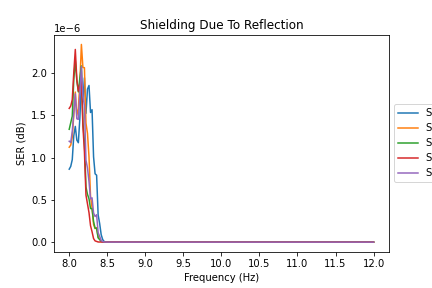
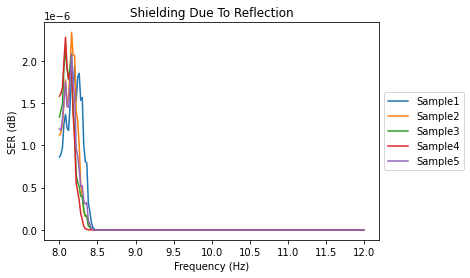
Add files via upload

Changed region(s): [[0.0, 0.0288, 1.0, 0.9784]]

diff --git a/8%CF/45_Degree_50%_8%CF/main.py b/8%CF/45_Degree_50%_8%CF/main.py
@@ -122,7 +122,7 @@ for i in range(N):
     if i == 16:
         plt.plot(x, mag, label = 'Sample4')
         plt.legend(loc='center left', bbox_to_anchor=(1, 0.5))
-    plt.savefig('S11.png')
+    plt.savefig('S11.png', bbox_inches='tight')
         
     plt.title(name_dict[i])
     fig = plt.figure(11)
@@ -152,7 +152,7 @@ for i in range(N):
         plt.plot(x, SER, label = 'Sample5')
 #        plt.plot(x, SER_Tunnel, label = 'tunnel 4')
         plt.legend(loc='center left', bbox_to_anchor=(1, 0.5))
-        plt.savefig('SER.png')
+    plt.savefig('SER.png', bbox_inches='tight')
     
 for i in range(N):
     if i == 0:
@@ -212,7 +212,7 @@ for i in range(N):
     if i == 17:
         plt.plot(x, mag, label = 'Sample5')
         plt.legend(loc='center left', bbox_to_anchor=(1, 0.5))
-        plt.savefig('S21.png')
+    plt.savefig('S21.png', bbox_inches='tight')
         
 S2 = []    
 for i in range(N):
@@ -277,7 +277,7 @@ for i in range(N):
     if i == 18:
         plt.plot(x, mag, label = 'Sample5')
         plt.legend(loc='center left', bbox_to_anchor=(1, 0.5))
-        plt.savefig('S12.png')
+    plt.savefig('S12.png',  bbox_inches='tight')
     plt.title(name_dict[i])
     fig = plt.figure(9)
     plt.title('Total SE')
@@ -302,11 +302,11 @@ for i in range(N):
     if i == 14:
         plt.plot(x, sample, label = 'Sample4')
         plt.legend(loc='center left', bbox_to_anchor=(1, 0.5))
-    if i == 18:
+#    if i == 18:
 #        plt.plot(x, Total_SE, label = 'Sample4')
-        plt.plot(x, sample, label = 'Sample 5')
-        plt.legend(loc='center left', bbox_to_anchor=(1, 0.5))
-        plt.savefig('Total_SE.png')
+#        plt.plot(x, sample, label = 'Sample 5')
+#        plt.legend(loc='center left', bbox_to_anchor=(1, 0.5))
+    plt.savefig('Total_SE.png',  bbox_inches='tight')
 
 for i in range(N):
     if i == 0:
@@ -367,7 +367,7 @@ for i in range(N):
     if i == 19:
         plt.plot(x, mag, label = 'Sample 5')
         plt.legend(loc='center left', bbox_to_anchor=(1, 0.5))
-        plt.savefig('S22.png')
+    plt.savefig('S22.png', bbox_inches='tight')
 #plt.show()
 
 
@@ -457,7 +457,7 @@ plt.plot(x, sample5, label = 'Sample 5')
 plt.legend(loc='center left', bbox_to_anchor=(1, 0.5))
 #print(S1, 'S11')
 #print(S2, 'S22')
-plt.savefig('SEA.png')
+plt.savefig('SEA.png', bbox_inches='tight')
 
 
 
